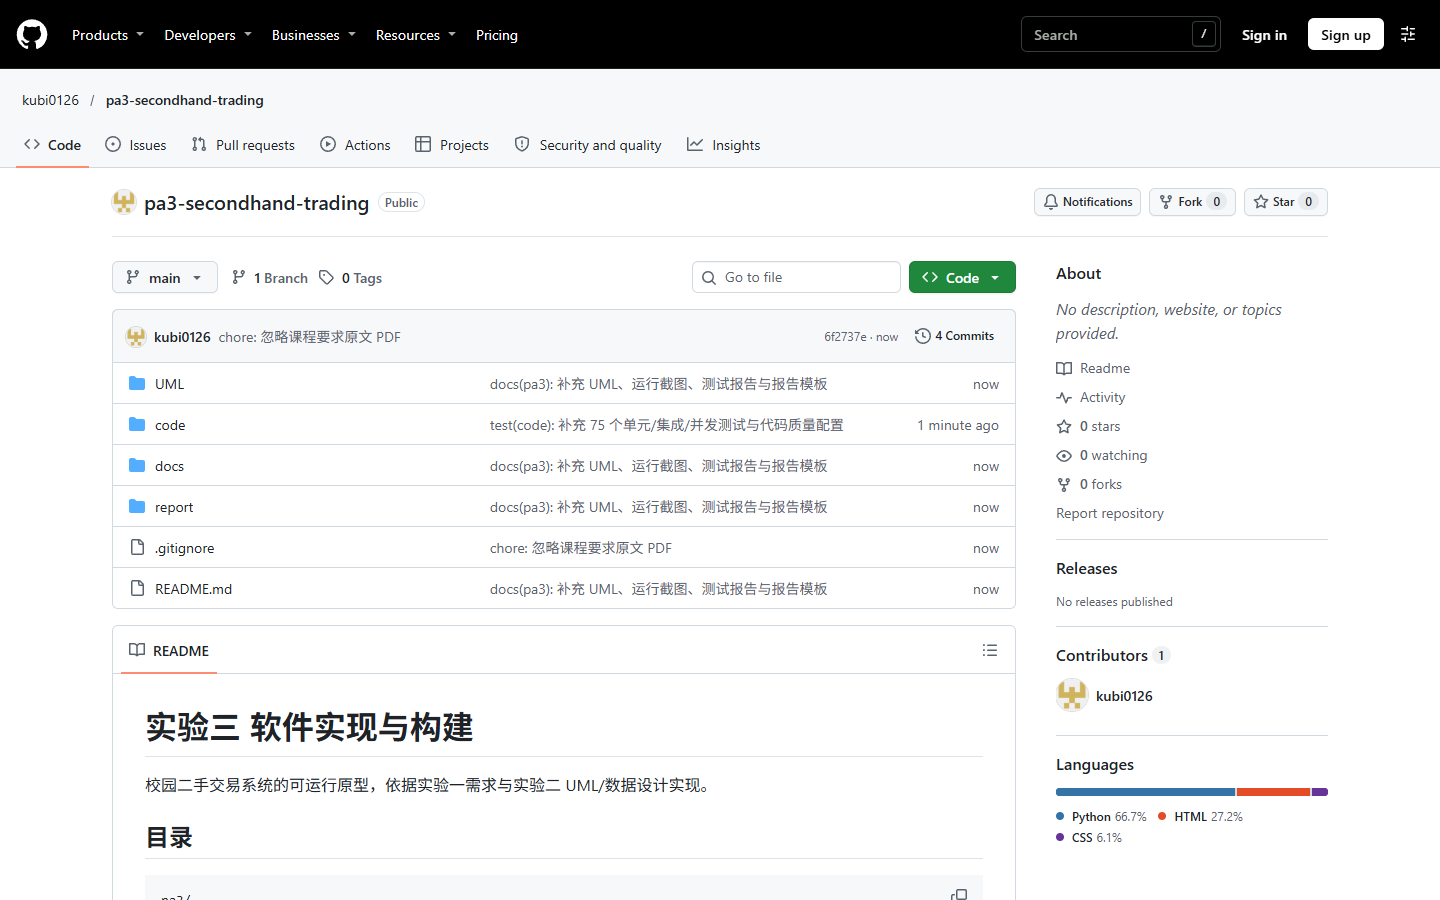
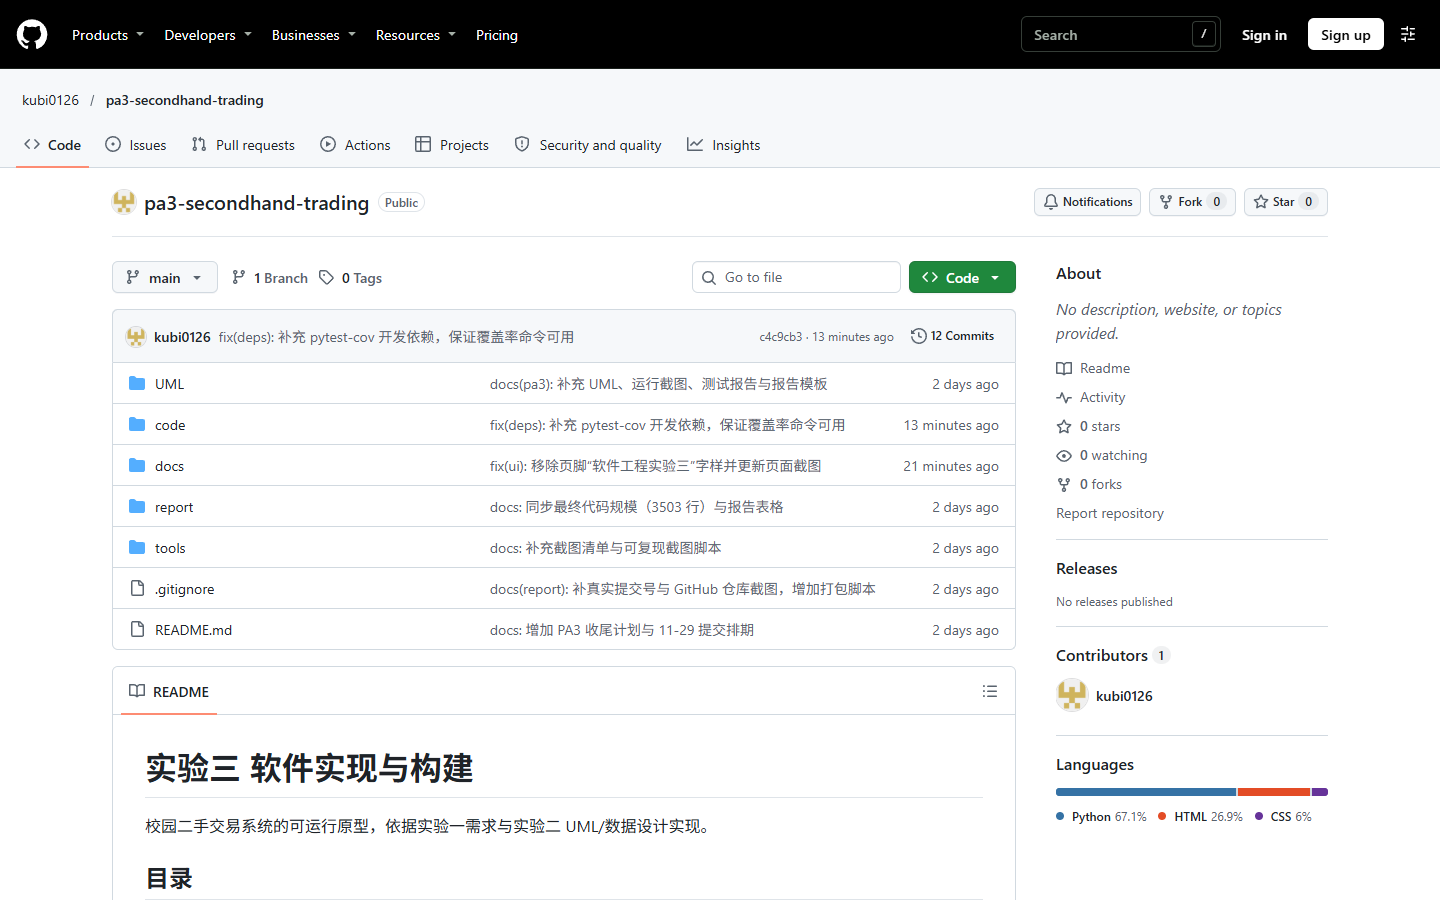
docs: 更新报告状态与测试环境，归档过期排期

diff --git a/docs/archive/implementation_plan_2026-11-22.md b/docs/archive/implementation_plan_2026-11-22.md
@@ -1,5 +1,9 @@
 # PA3 实现与收尾计划
 
+> 归档：本文件是 2026-11-22 的历史排期，已完成，不再代表当前状态。
+>
+> 2026-11-24 执行结果：代码已完成并提交到远程 `main`；报告已按“功能—问题—效果”重写为 6 页，见 `report/report_v5.html` 与 `report/实验报告_草稿_v5.pdf`。本文件保留为当时的排期记录。
+
 制定时间：2026-11-22 17:00
 提交截止：2026-11-29 23:59（建议 11-29 20:00 前完成上传）
 目标：提交 `实验3_241220163_尹照达.zip`，包含实验报告 PDF、13 对 UML、可运行代码；远程仓库可匿名访问。
@@ -19,10 +23,10 @@
 | UML | 13 对 png+puml | `UML/` |
 | 运行截图 | 19 张 | `docs/screenshots/` |
 | 远程仓库 | Public，main | https://github.com/kubi0126/pa3-secondhand-trading |
-| 报告 | 18 页骨架，18 个 TODO | `report/report.html` |
+| 报告 | 已完成（本地报告源与 PDF） | `report/` |
 | 提交包 | 2.90 MB 预览包 | `实验3_241220163_尹照达_预览.zip` |
 
-**结论：技术工作完成度约 90%，关键路径只剩报告正文 → PDF → 最终 zip。**
+**结论：技术实现与报告均已完成；本文件保留为排期记录。**
 
 ## 2. 范围冻结
 
@@ -67,7 +71,7 @@
 | 11-24 周二 | 晚上 2.5 h | R2：2.4、2.5、3.1 | 状态机/时序图段落完成 |
 | 11-25 周三 | 晚上 2 h | R2/R3：3.2、3.3、3.5 | 第 3 章完成 |
 | 11-26 周四 | 晚上 2 h | R3：4.1、4.3、4.4 | 第 4 章完成，案例写实 |
-| 11-27 周五 | 晚上 1.5 h | R3：5.2、5.3、6.2、7 | 全部 18 个 TODO 清零 |
+| 11-27 周五 | 晚上 1.5 h | R3：5.2、5.3、6.2、7 | 报告完成 |
 | 11-28 周六 | 下午 2 h | R4 + V1/V2 + P1/P2 | PDF 定稿、最终 zip 生成 |
 | 11-29 周日 | 上午 1 h | P3 + 缓冲 | 上传成功，保留截图/哈希 |
 
@@ -136,7 +140,7 @@
 - [ ] `git status` 干净；`git ls-remote origin main` 与本地 HEAD 一致。
 - [ ] zip 顶层为 `实验3_241220163_尹照达/{实验报告.pdf,UML/,code/}`。
 - [ ] zip 内无 `var/`、`__pycache__`、`.pytest_cache`、`.coverage`。
-- [ ] `实验报告.pdf` 不是模板（>1 MB，18+ 页，无黄色提示框）。
+- [x] `实验报告.pdf` 已生成，非模板。
 
 ## 7. 风险与应对
 

diff --git a/README.md b/README.md
@@ -9,8 +9,8 @@ pa3/
 ├── code/          # 源码、测试、工具、README
 ├── UML/           # 实验二 13 对 UML（png + puml），实验三复用
 ├── docs/          # 代码规模、测试报告、设计映射、AI 使用记录、运行截图
-├── report/        # 报告 HTML 模板、写作提纲、模板 PDF
-├── 实验报告.pdf    # 待本人填写正文后生成（当前为模板）
+├── report/        # 报告源、写作提纲与历史稿
+├── 实验报告.pdf    # 由本地报告源生成，作为提交物
 └── 实验3_241220163_尹照达/  # 提交包（生成后）
 ```
 
@@ -19,9 +19,9 @@ pa3/
 - 代码：8 个模块、75 个测试全部通过、覆盖率 81%、pylint 10.00/10。
 - 规模：Python 手写代码 3503 行（非空非注释），超过 1500 行要求。
 - UML：13 对 png/puml，已从实验二复制。
-- 文档：`docs/` 下四份事实材料 + 17 页截图。
-- 报告：`report/report.html` 为骨架，正文需本人按课程要求撰写。
-- 收尾排期与验收清单：`docs/implementation_plan.md`。
+- 文档：`docs/` 下四份事实材料 + 19 张运行/Git 截图。
+- 报告：最终 PDF 由本地报告源生成，作为提交物；报告源不纳入 Git。
+- 收尾排期（历史计划，已完成）：`docs/archive/implementation_plan_2026-11-22.md`。
 
 ## 快速开始
 
@@ -48,9 +48,7 @@ python tools/count_loc.py
 
 ## 报告
 
-课程明确“实验报告的书写不允许使用大模型的辅助”。`report/report.html` 只提供章节、
-图表、命令与测试数据，黄色提示框需由本人替换为正文。填写后按
-`report/report_outline.md` 文末命令重新生成 PDF。
+课程明确“实验报告的书写不允许使用大模型的辅助”。最终报告 PDF 由本地报告源生成，作为提交物放在 zip 中；正文需本人核对、改写后提交。报告源不作为代码仓库的提交内容。
 
 ## 提交
 

diff --git a/docs/test_report.md b/docs/test_report.md
@@ -1,14 +1,14 @@
 # 测试与代码质量报告
 
-日期：2026-11-22
-被测版本：`code/`（Git 提交见仓库）
+日期：2026-11-24
+被测版本：`code/`（Git `c4c9cb3`）
 
 ## 1. 环境
 
 | 项 | 版本 |
 |---|---|
 | 操作系统 | Windows 11 |
-| Python | 3.13.14 |
+| Python | 3.12.6 |
 | Flask | 3.1.3 |
 | pytest | 9.2.0 |
 | bcrypt | 4.x（cost=12；测试环境 cost=4） |
@@ -19,17 +19,17 @@
 ```bash
 cd code
 python -m pytest -q
-# 75 passed in 8.58s
+# 75 passed in 5.57s
 
 python -m pytest --cov=secondhand --cov-report=term-missing
-# TOTAL 2132 statements, 396 missed, 81%
+# TOTAL 2134 statements, 397 missed, 81%
 
-python -m pylint secondhand
+python -m pylint secondhand tests
 # Your code has been rated at 10.00/10
 
 python tools/count_loc.py
 # Python 3503 行（非空非注释，41 个文件）
-# Jinja 1044 行、CSS 496 行（不计入 1500 行门槛）
+# Jinja 1045 行、CSS 496 行（不计入 1500 行门槛）
 ```
 
 ## 3. 测试分布

diff --git a/docs/run_screenshots.md b/docs/run_screenshots.md
@@ -23,7 +23,7 @@
 | 15-数据字典.png | `/admin/dict` | 分类/成色启停与新增 |
 | 16-移动端-商品列表.png | `/` | 390×844 窄屏 |
 | 17-移动端-商品详情.png | `/items/2` | 390×844 窄屏 |
-| 18-GitHub仓库首页.png | GitHub | Public、main、文件列表 |
+| 18-GitHub仓库首页.png | GitHub | Public、main、文件列表（最新 UI 提交） |
 | 19-GitHub提交记录.png | GitHub | 4 次主要提交 |
 
 复现截图需先启动服务：

diff --git a/code/README.md b/code/README.md
@@ -103,7 +103,7 @@ python tools/count_loc.py                          # 代码规模
 ```
 
 当前统计：Python 手写代码 **3503 行**（非空非注释，41 个文件，不含测试/模板/CSS），
-Jinja 模板 1044 行、CSS 496 行。详细数字见 `../docs/loc_report.md`。
+Jinja 模板 1045 行、CSS 496 行。详细数字见 `../docs/loc_report.md`。
 
 ## 8. 常用命令
 
